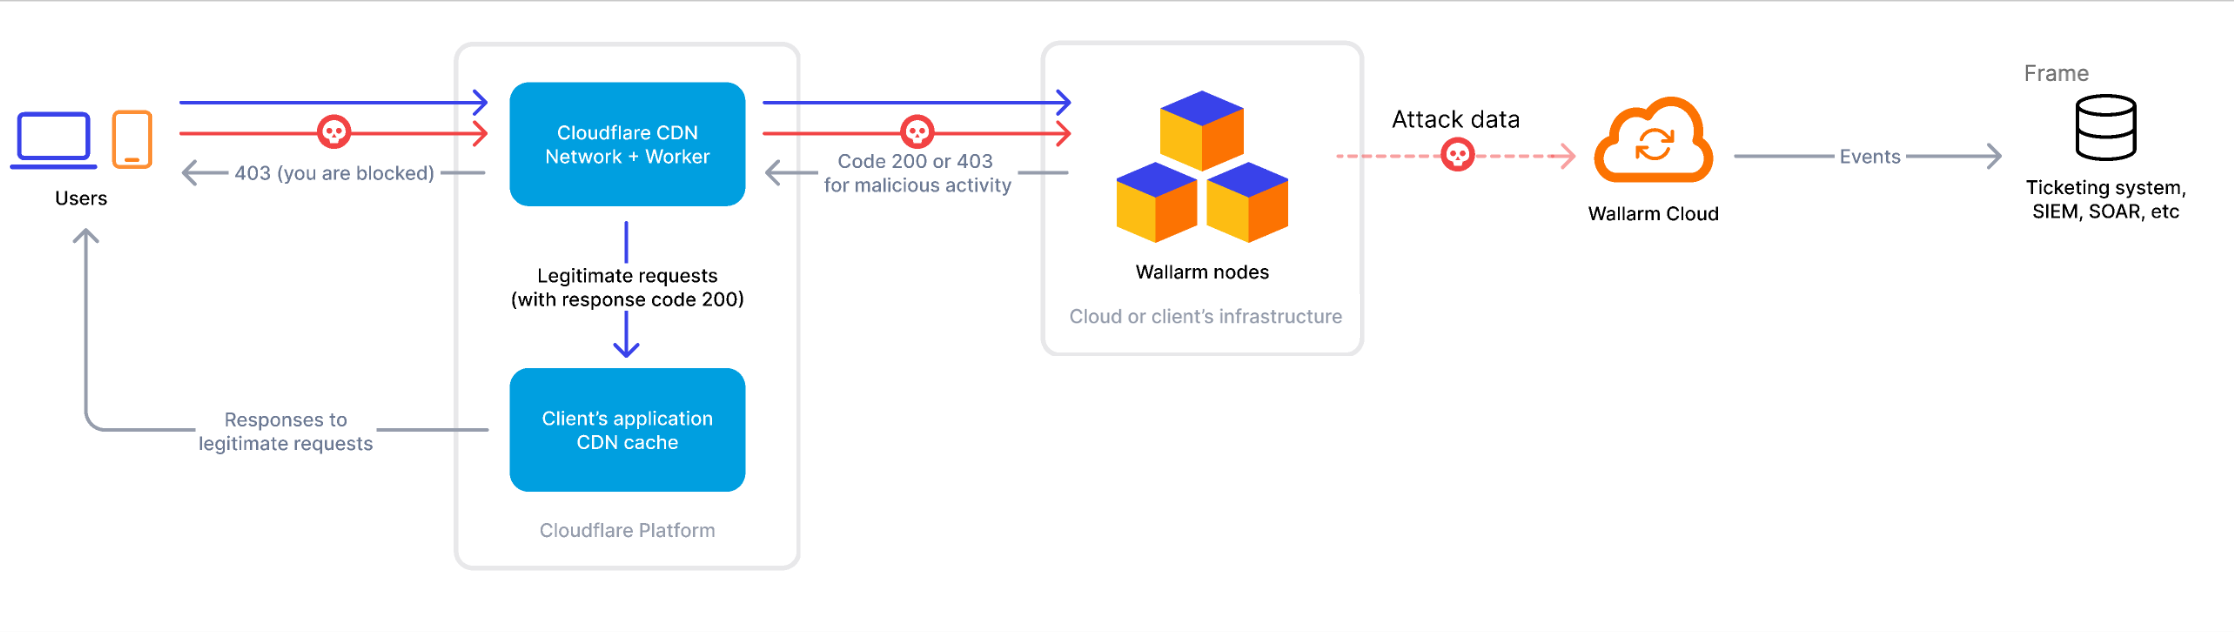
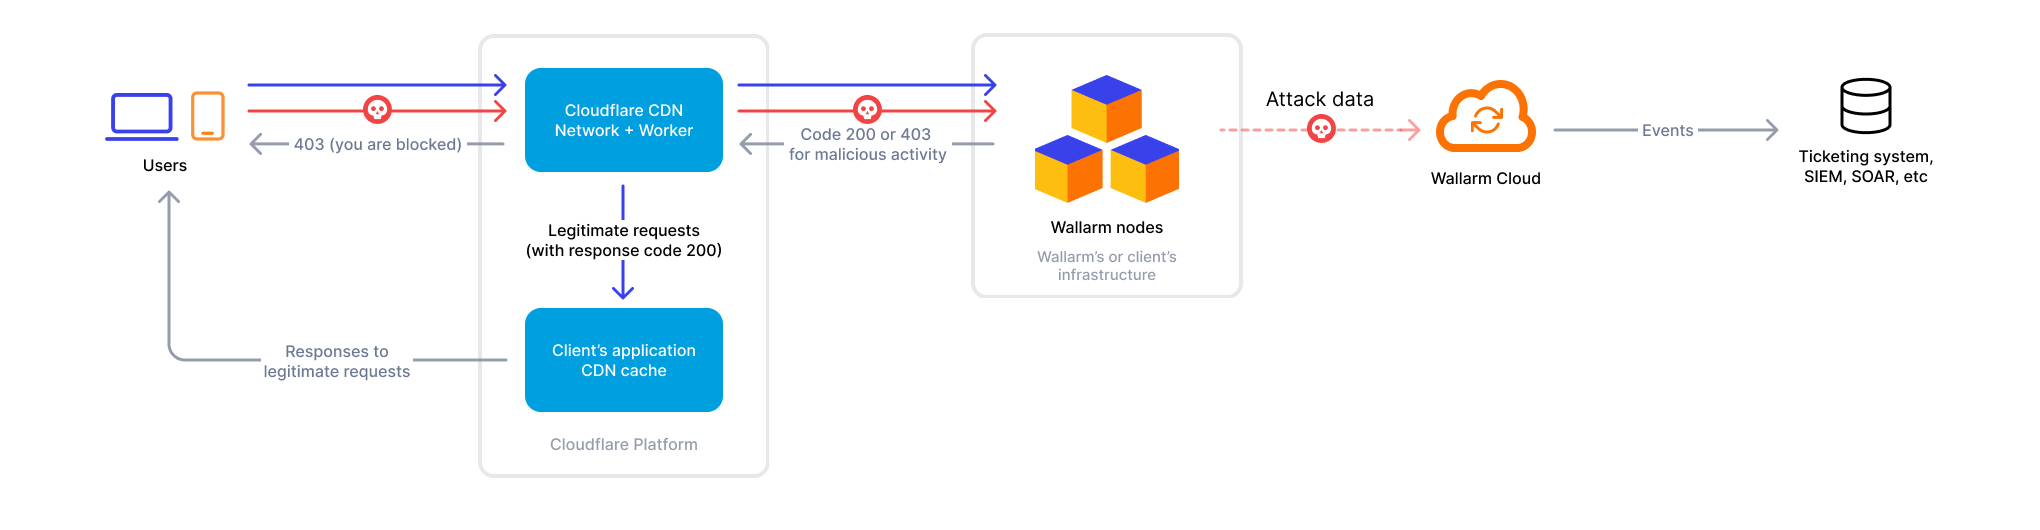
reflect edge connectors in the cloudflare docs

diff --git a/docs/latest/installation/connectors/cloudflare.md b/docs/latest/installation/connectors/cloudflare.md
@@ -1,13 +1,15 @@
 [ptrav-attack-docs]:                ../../attacks-vulns-list.md#path-traversal
-[attacks-in-ui-image]:              ../../images/admin-guides/test-attacks-quickstart-sqli-xss.png
+[attacks-in-ui-image]:              ../../images/admin-guides/test-attacks-quickstart.png
+[wallarm-hosted-connector-desc]:    ../connectors/overview.md#wallarm-edge-connectors
+[filtration-mode-docs]:             ../../admin-en/configure-wallarm-mode.md
 
-# Cloudflare
+# Wallarm Connector for Cloudflare
 
-[Cloudflare](https://www.cloudflare.com/) is a security and performance service which offers features designed to enhance the security, speed, and reliability of websites and internet applications, including CDN, WAF, DNS services and SSL/TLS encryption. This article provides instructions on configuring Wallarm and Cloudflare to route your entire domain or selected application's Cloudflare traffic to the Wallarm node for analysis and filtering.
+[Cloudflare](https://www.cloudflare.com/) is a security and performance service which offers features designed to enhance the security, speed, and reliability of websites and internet applications, including CDN, WAF, DNS services and SSL/TLS encryption. Wallarm can act as a connector to secure APIs running on Cloudflare.
 
-The solution involves deploying and configuring the Wallarm node externally and injecting custom code into Cloudflare's worker object. This enables traffic to be directed to the external Wallarm node for analysis and protection against potential threats. In the scenario, the Cloudflare itself serves as connector between your applications and Wallarm providing secure traffic analysis, risk mitigation, and overall security.
+The Wallarm filtering node is deployed externally and acts as a connector between Cloudflare and Wallarm. On the Cloudflare side, you only need to run an additional worker using the Wallarm-provided code to route traffic to the connector.
 
-<a name="cloudflare-modes"></a> The Cloudflare integration supports both [in-line](../inline/overview.md) and [out-of-band](../oob/overview.md) modes. Below diagrams show the traffic flow for both cases.
+<a name="cloudflare-modes"></a> The Cloudflare integration supports both [in-line](../inline/overview.md) and [out-of-band](../oob/overview.md) modes:
 
 === "In-line traffic flow"
 
@@ -21,14 +23,6 @@ The solution involves deploying and configuring the Wallarm node externally and 
 
 Among all supported [Wallarm deployment options](../supported-deployment-options.md), this solution is recommended in case when you provide access to your applications via Cloudflare.
 
-## Limitations
-
-The solution has certain limitations as it only works with incoming requests:
-
-* Vulnerability discovery using the [passive detection](../../about-wallarm/detecting-vulnerabilities.md#passive-detection) method does not function properly. The solution determines if an API is vulnerable or not based on server responses to malicious requests that are typical for the vulnerabilities it tests.
-* The [Wallarm API Discovery](../../api-discovery/overview.md) cannot explore API inventory based on your traffic, as the solution relies on response analysis.
-* The [protection against forced browsing](../../admin-en/configuration-guides/protecting-against-bruteforce.md) is not available since it requires response code analysis.
-
 ## Requirements
 
 To proceed with the deployment, ensure that you meet the following requirements:
@@ -36,124 +30,103 @@ To proceed with the deployment, ensure that you meet the following requirements:
 * Understanding of Cloudflare technologies.
 * APIs or traffic running through Cloudflare.
 
-## Deployment
+### 1. Deploy a Wallarm connector
 
-To secure with Wallarm your applications that are delivered via Cloudflare:
+You can deploy a Wallarm connector node either hosted by Wallarm or in your own infrastructure, depending on the level of control you require.
 
-1. Request Wallarm support to activate Cloudflare integration.
-1. Set Cloudflare worker and routes to route traffic to Wallarm for analysis.
+=== "Wallarm Edge connector node"
+    --8<-- "../include/waf/installation/security-edge/add-connector.md"
+=== "Self-hosted connector node"
+    The current self-hosted node deployment has limitations. Full response analysis is not yet supported, which is why:
 
-### 1. Request Wallarm support to activate Cloudflare integration
+    * Vulnerability discovery using the [passive detection](../../about-wallarm/detecting-vulnerabilities.md#passive-detection) method does not function properly. The solution determines if an API is vulnerable or not based on server responses to malicious requests that are typical for the vulnerabilities it tests.
+    * The [Wallarm API Discovery](../../api-discovery/overview.md) cannot explore API inventory based on your traffic, as the solution relies on response analysis.
+    * The [protection against forced browsing](../../admin-en/configuration-guides/protecting-against-bruteforce.md) is not available since it requires response code analysis.
 
-Contact [support@wallarm.com](mailto:support@wallarm.com) to request the activation of Cloudflare integration and obtain the `<FILTERING_NODE_URL>`. Consider the following:
+    To deploy a self-hosted connector node:
 
-* As the traffic flow [can operate](#cloudflare-modes) both in-line and out-of-band (OOB), you need to discuss with the support which option suits you.
+    1. Allocate an instance for deploying the node.
+    1. Choose one of the supported Wallarm node deployment solutions or artifacts for the [in-line](../supported-deployment-options.md#in-line) or [out-of-band](../oob/overview.md) deployment and follow the provided deployment instructions.
+    1. Configure the deployed node using the following template:
 
-* Wallarm support team will deploy a filtering node in a trustworthy cloud environment and fully configure it for processing your traffic redirected from Cloudflare.
+        ```
+        server {
+            listen 80;
 
-    Alternatively, you can install node in your own infrastructure (see options for [in-line](../../installation/supported-deployment-options.md#in-line) and [out-of band (OOB)](../../installation/supported-deployment-options.md#out-of-band) installation) and request Wallarm support to help you to prepare the node for integration with Cloudflare.
+            server_name _;
 
-### 2. Set Cloudflare worker and routes
+            access_log off;
+            wallarm_mode off;
 
-In Cloudflare, do the following:
-
-1. Select domain to be routed to Wallarm.
-1. For this domain, create worker with the following code:
-
-    ```
-    // Configuration
-    const wallarm_node = "https://<FILTERING_NODE_URL>"; // Replace with your Wallarm node URL
-    const wallarm_mode = "async"; //"async" or "inline" - choose based on your needs
-
-    addEventListener("fetch", event => {
-    event.passThroughOnException();
-    event.respondWith(handleRequest(event));
-    });
-
-    async function handleRequest(event) {
-
-    if (event.request._handled) return;
-    event.request._handled = true;
-    
-    let request = event.request;
-    request._handled = true;
-
-    // Clone the request to be able to read its body
-    let requestBody = await request.clone().text();
-
-    const url = new URL(request.url);
-
-    // Check if the request URL ends with a static extension
-    if (isStatic(url)) {
-        // If it is a static request, proceed with the original request without sending it to the backend
-        return await fetch(request);
-    }
-
-    if (wallarm_mode === "async") {
-        // In async mode, send the request to the backend asynchronously and proceed with the original request
-        sendToBackend(request, requestBody, true);
-    } else if (wallarm_mode === "inline") {
-        // In inline mode, wait for the backend response to decide on blocking the request
-        let node_response = await sendToBackend(request, requestBody, false);
-    
-        // If the backend server responds with 403, block the request
-        if(node_response.status === 403) {
-        return new Response("Request blocked.", { status: 403 });
+            location / {
+                proxy_set_header Host $http_x_forwarded_host;
+                proxy_pass http://unix:/tmp/wallarm-nginx.sock;
+            }
         }
-    }
-    // Proceed with the original request if not blocked
-    return await fetch(request);
-    
-    }
 
-    async function sendToBackend(request, body, sendasync) {
+        server {
+            listen 443 ssl;
 
-    const url = new URL(request.url);
+            server_name yourdomain-for-wallarm-node.tld;
 
-    let headers = {}
-    request.headers.forEach((value, key) => {
-        headers[key] = value
-    })
+            ### SSL configuration here
 
-    headers["X-FORWARDED-HOST"] = url.host;
+            access_log off;
+            wallarm_mode off;
 
-    // Create the options object for the fetch call, excluding the body initially
-    const fetchOptions = {
-        method: request.method,
-        headers: headers
-    };
-    
-    // Only add the body to the fetch options for methods other than GET and HEAD
-    if (request.method !== "GET" && request.method !== "HEAD") {
-        fetchOptions.body = body;
-    }
+            location / {
+                proxy_set_header Host $http_x_forwarded_host;
+                proxy_pass http://unix:/tmp/wallarm-nginx.sock;
+            }
+        }
 
-    if(sendasync){
-        // Perform the fetch without waiting for the response
-        fetch(wallarm_node + url.pathname + url.search, fetchOptions).then(response => {
-        // Optionally handle the async response
-        console.log("Async request sent to backend");
-        }).catch(error => {
-        console.error("Error sending async request to backend:", error);
-        });
-    }else{
-        return await fetch(wallarm_node + url.pathname + url.search, fetchOptions);
-    }
-    }
 
-    const staticExtensions = [".css", ".js",
-    ".jpg", ".jpeg", ".png", ".gif", ".svg", ".ico",
-    ".woff", ".woff2", ".eot", ".ttf", ".otf", ".webp", ".avif", ".mp4", ".webm"];
-    function isStatic(url) {
-    return staticExtensions.some(ext => url.pathname.endsWith(ext));
-    }
-    ```
+        server {
+            listen unix:/tmp/wallarm-nginx.sock;
+            
+            server_name _;
+            
+            wallarm_mode monitoring;
+            #wallarm_mode block;
 
-1. To set paths of your domain that you want to route to Wallarm, create the route object and link it to your worker. Within the route object, list one or several paths, for example, add `*.example.com/*` to route all domain's paths.
+            real_ip_header X-REAL-IP;
+            set_real_ip_from unix:;
+
+            location / {
+                echo_read_request_body;
+            }
+        }
+        ```
+
+        Please ensure to pay attention to the following configurations:
+
+        * TLS/SSL certificates for HTTPS traffic: To enable the Wallarm node to handle secure HTTPS traffic, configure the TLS/SSL certificates accordingly. The specific configuration will depend on the chosen deployment method. For example, if you are using NGINX, you can refer to [its article](https://docs.nginx.com/nginx/admin-guide/security-controls/terminating-ssl-http/) for guidance.
+        * [Wallarm operation mode](../../admin-en/configure-wallarm-mode.md) configuration.
+
+    1. Once the deployment is complete, make a note of the node instance IP as you will need it later to set the address for incoming request forwarding.
+
+### 2. Obtain and deploy the Wallarm worker code
+
+To run a Cloudflare worker routing traffic to the Wallarm connector:
+
+1. Contact [support@wallarm.com](mailto:support@wallarm.com) to get the Wallarm worker code for your connector deployment (Wallarm- or self-hosted).
+1. [Create a Cloudflare worker](https://developers.cloudflare.com/workers/get-started/dashboard/) using the provided code.
+1. Set the address of your [Wallarm connector instance](#1-deploy-a-wallarm-connector) in the `wallarm_node` parameter.
+1. If using [out-of-band](../oob/overview.md) mode, set the `wallarm_mode` parameter to `async`.
+
+    Based on the selected mode, the worker controls whether traffic goes through the connector inline or if original traffic proceeds while a copy is inspected for malicious activities.
+
+    ![Cloudflare worker](../../images/waf-installation/gateways/cloudflare/worker-deploy.png)
+1. In **Website** → your domain, go to **Workers Routes** → **Add route**:
+
+    * In **Route**, specify the paths to be routed to Wallarm for analysis (e.g., `*.example.com/*` for all paths).
+    * In **Worker**, select the Wallarm worker you created.
+
+    ![Cloudflare add route](../../images/waf-installation/gateways/cloudflare/add-route.png)
 
 ## Testing
 
-To test the functionality of the deployed policy, follow these steps:
+To test the functionality of the deployed solution, follow these steps:
 
 1. Send the request with the test [Path Traversal][ptrav-attack-docs] attack to your API:
 
@@ -164,8 +137,8 @@ To test the functionality of the deployed policy, follow these steps:
     
     ![Attacks in the interface][attacks-in-ui-image]
 
-    If the Wallarm node mode is set to blocking, the request will also be blocked.
+    If the Wallarm node mode is set to blocking and the traffic flows in-line, the request will also be blocked.
 
-## Need assistance?
+## Troubleshooting
 
-If you encounter any issues or require assistance with the described deployment of Wallarm in conjunction with Cloudflare, you can reach out to the [Wallarm support](mailto:support@wallarm.com) team. They are available to provide guidance and help resolve any problems you may face during the implementation process.
+--8<-- "../include/waf/installation/security-edge/connector-troubleshooting.md"
